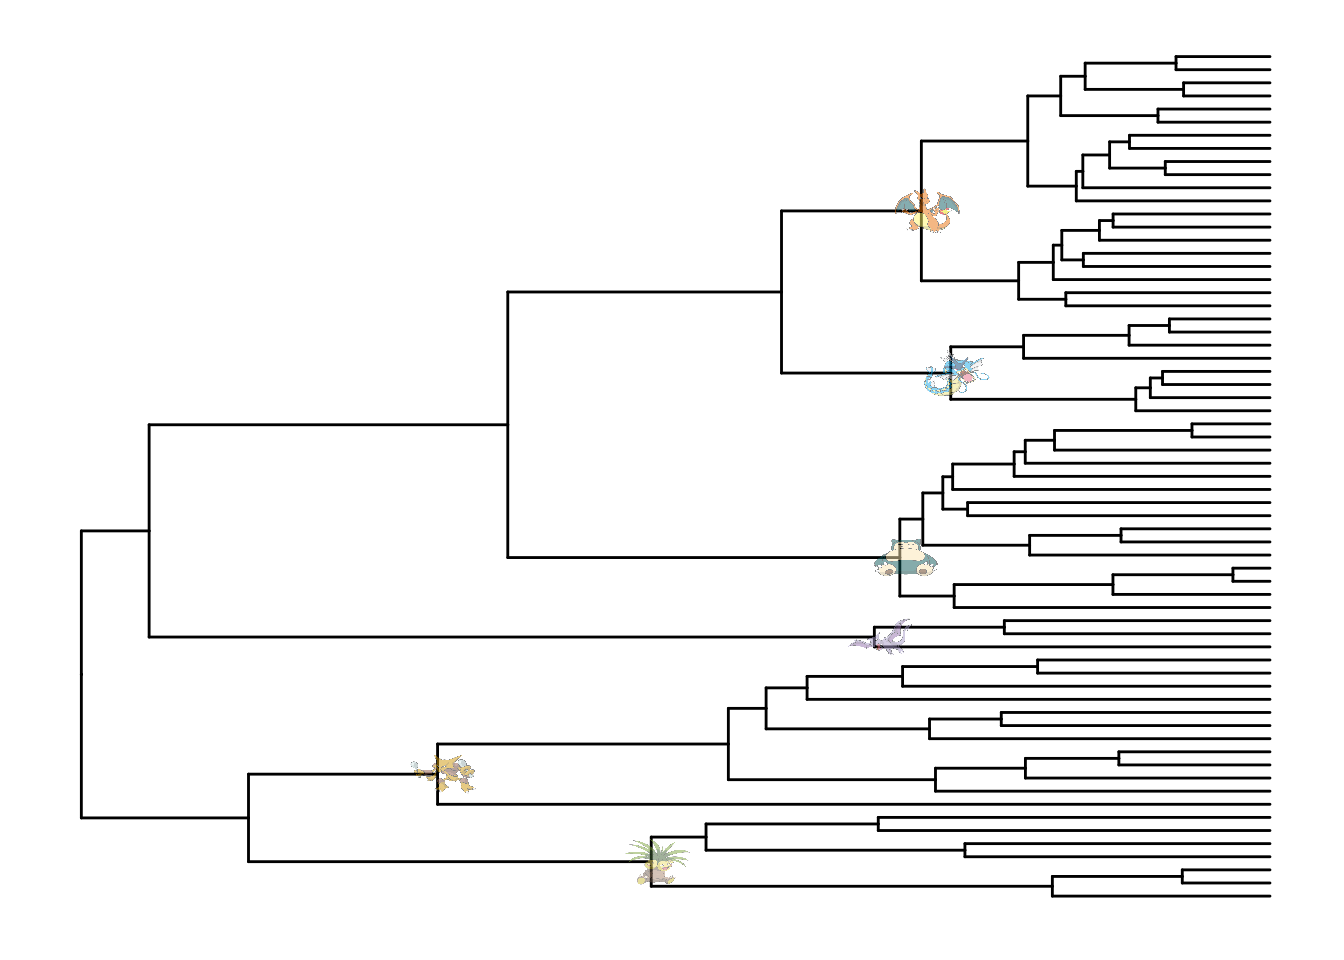
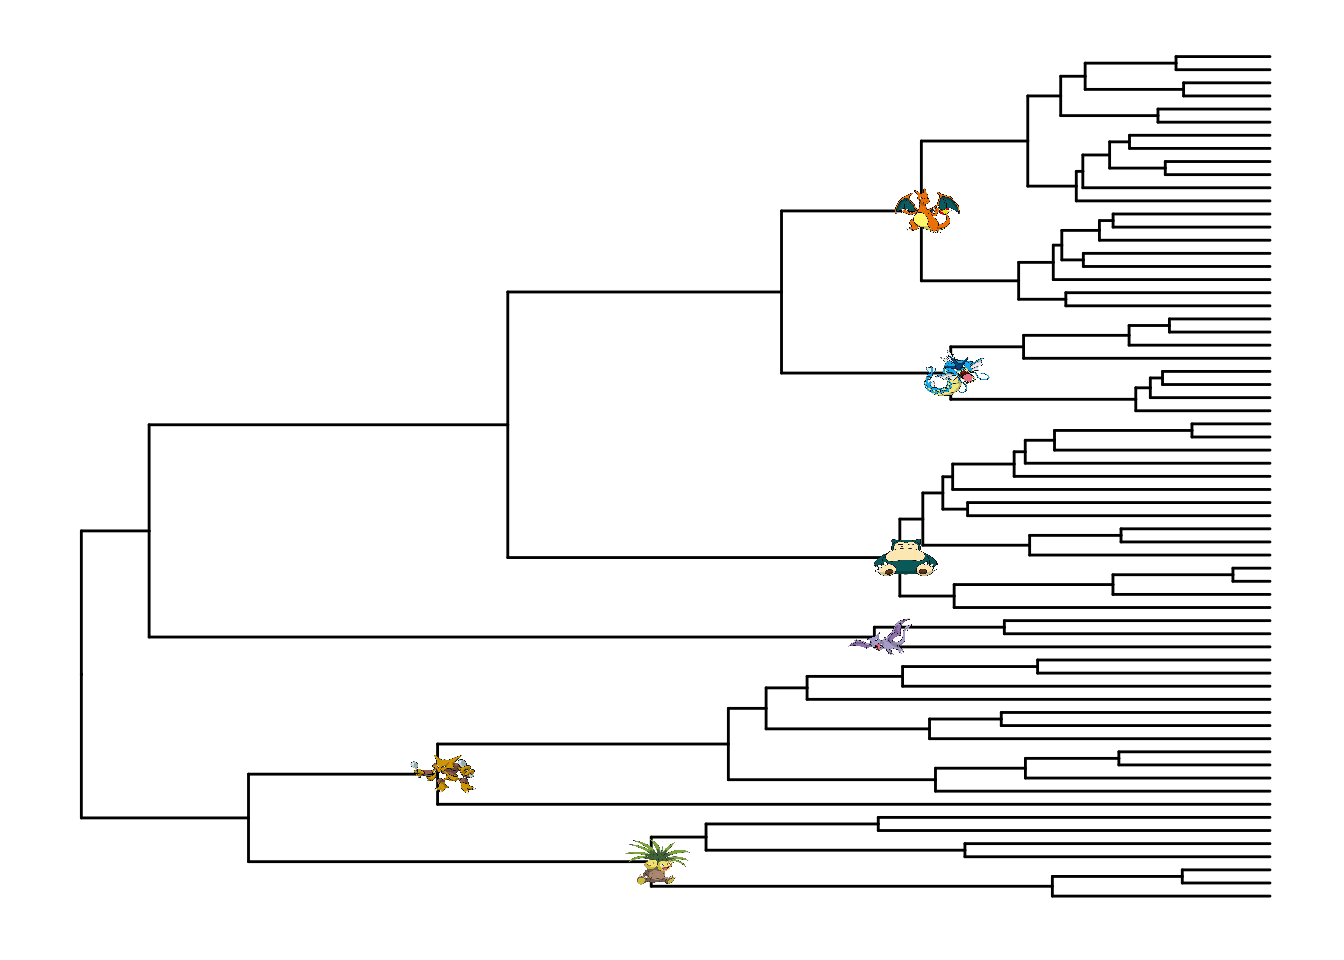
update

diff --git a/docs/chapter-ggimage.html b/docs/chapter-ggimage.html
@@ -193,7 +193,7 @@ pg <span class="op">%&lt;+%</span><span class="st"> </span>phylopic_info <span c
                             <span class="st">&quot;https://i.imgur.com/2xin0UK.png&quot;</span>,
                             <span class="st">&quot;https://i.imgur.com/hbftayl.png&quot;</span>,
                             <span class="st">&quot;https://i.imgur.com/3wDHW8n.png&quot;</span>))
-pg <span class="op">%&lt;+%</span><span class="st"> </span>d <span class="op">+</span><span class="st"> </span><span class="kw">geom_nodelab</span>(<span class="kw">aes</span>(<span class="dt">image=</span>images), <span class="dt">geom=</span><span class="st">&quot;image&quot;</span>, <span class="dt">alpha=</span><span class="fl">0.5</span>)                                        </code></pre></div>
+pg <span class="op">%&lt;+%</span><span class="st"> </span>d <span class="op">+</span><span class="st"> </span><span class="kw">geom_nodelab</span>(<span class="kw">aes</span>(<span class="dt">image=</span>images), <span class="dt">geom=</span><span class="st">&quot;image&quot;</span>)                                       </code></pre></div>
 <p><img src="ggtree-book_files/figure-html/unnamed-chunk-43-2.png" width="672" /></p>
 </div>
 <div id="use-image-as-background" class="section level2">
